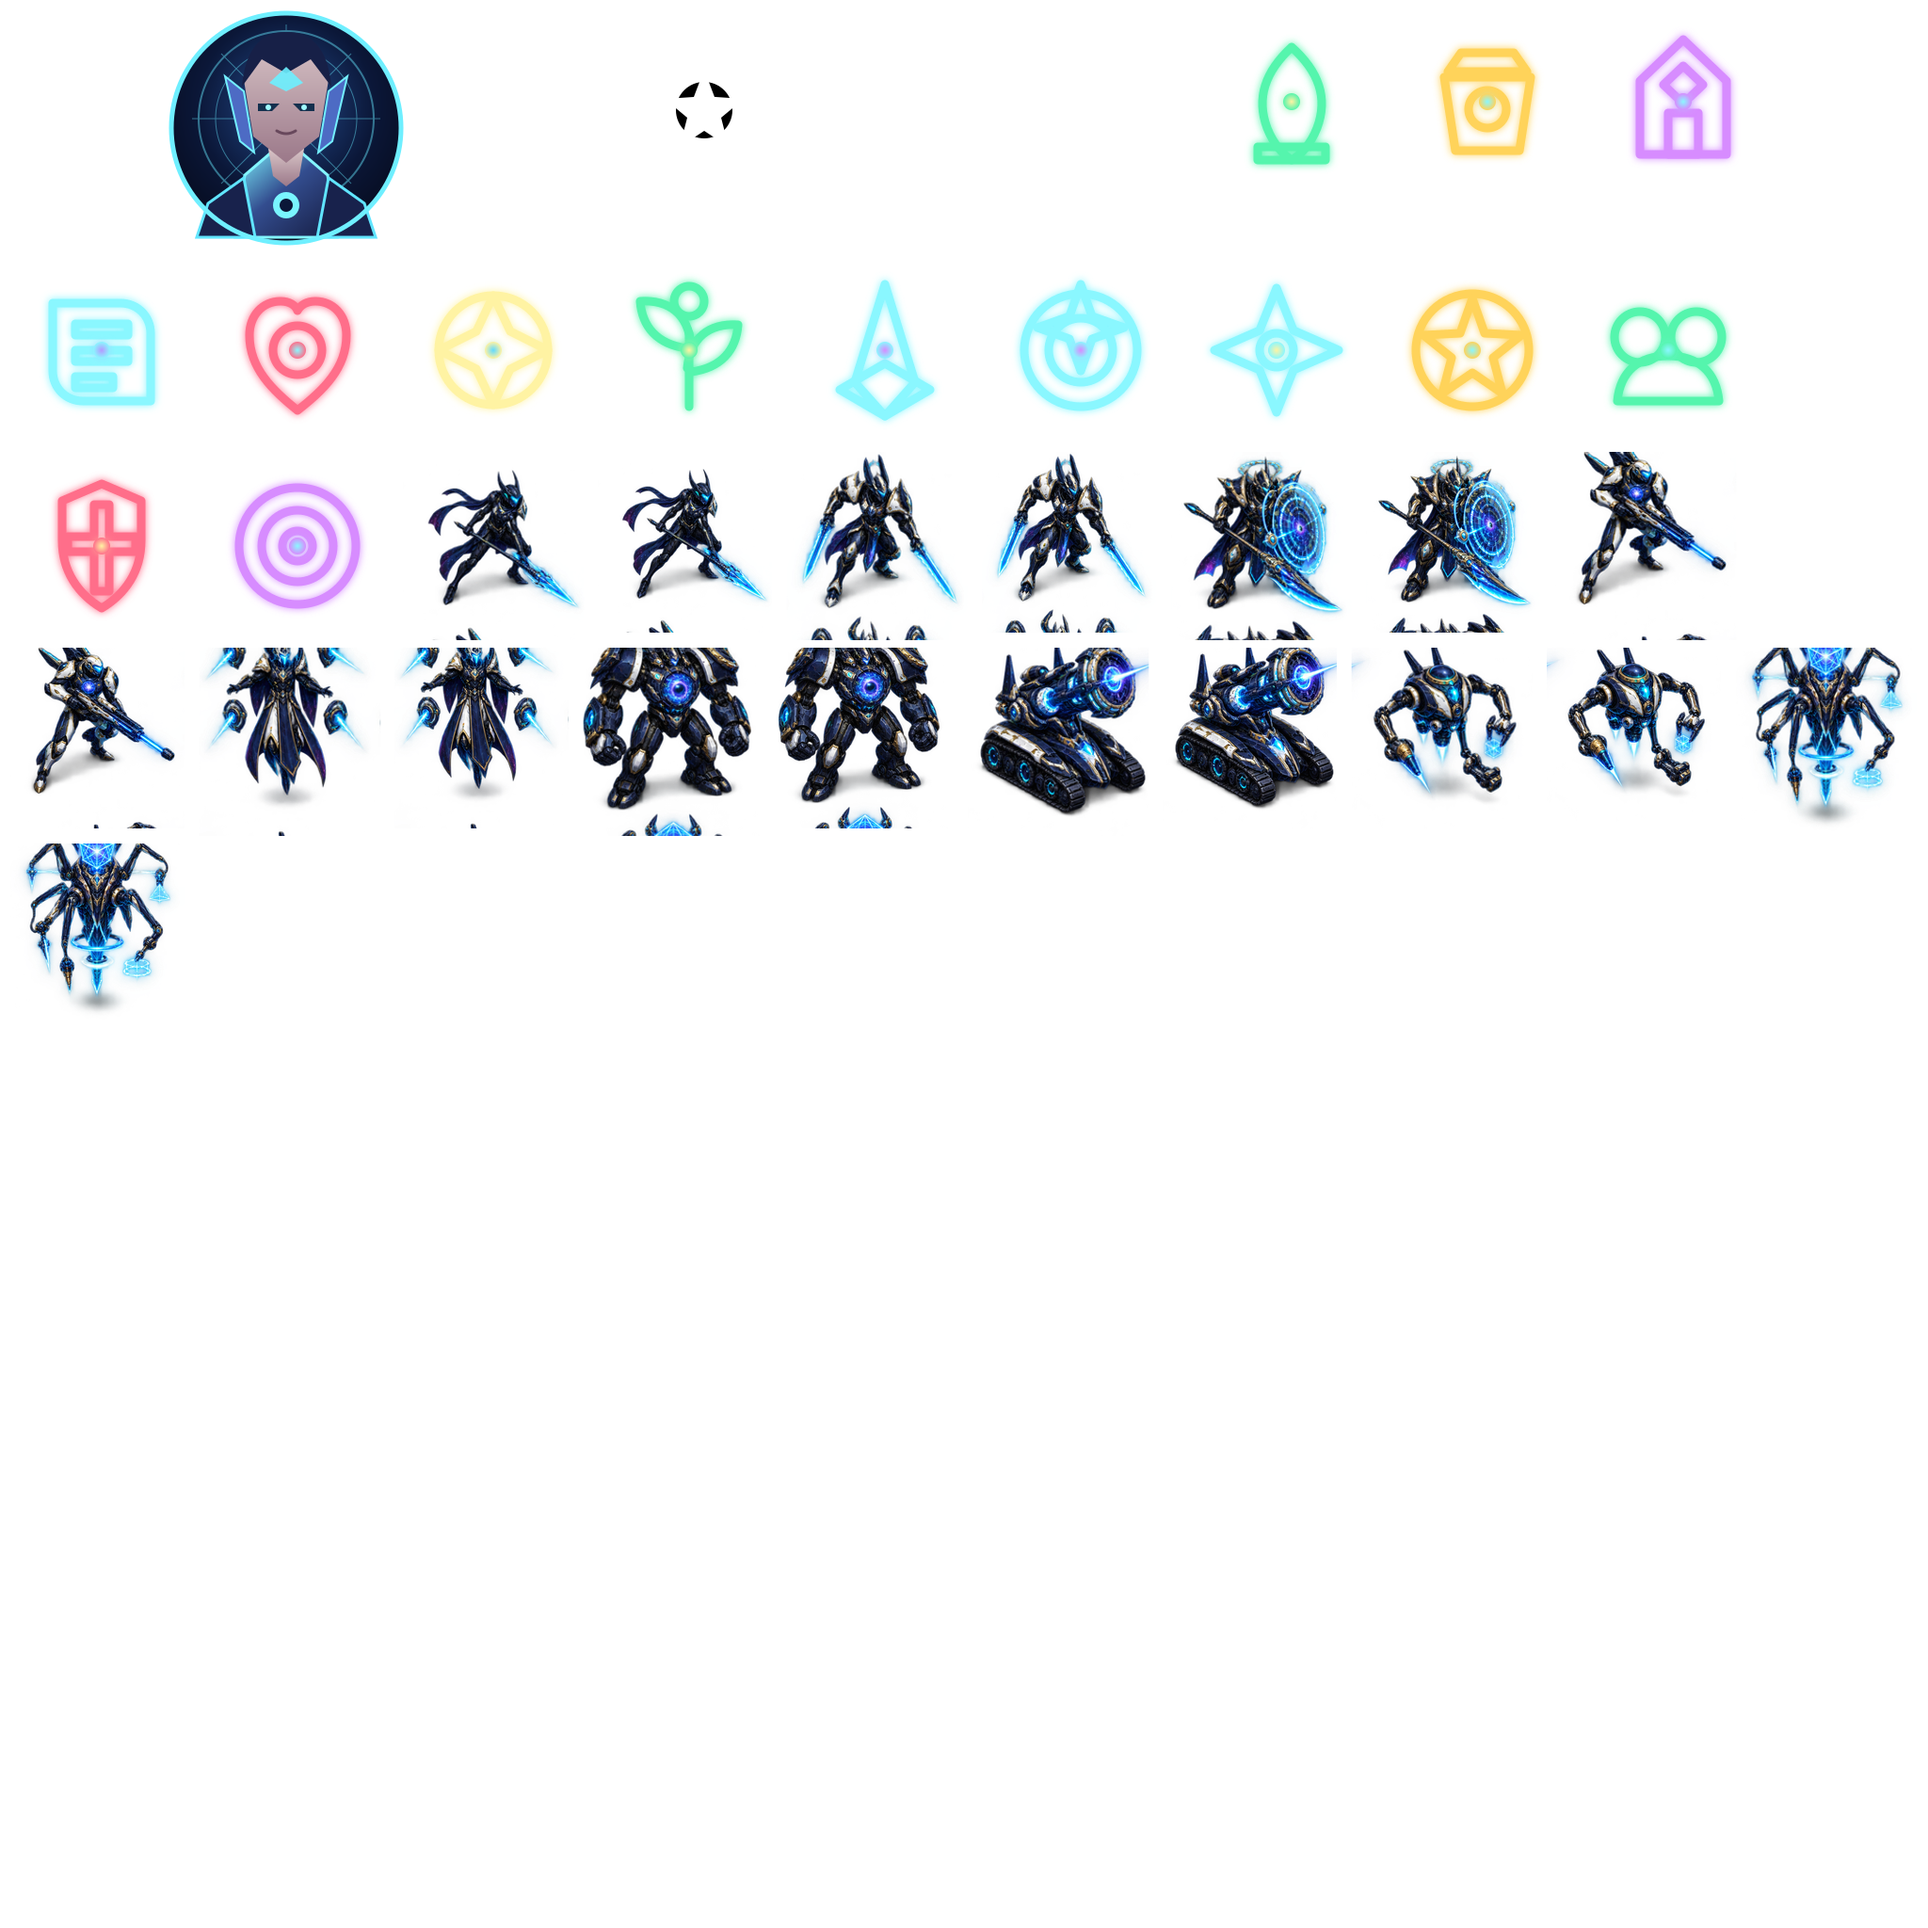
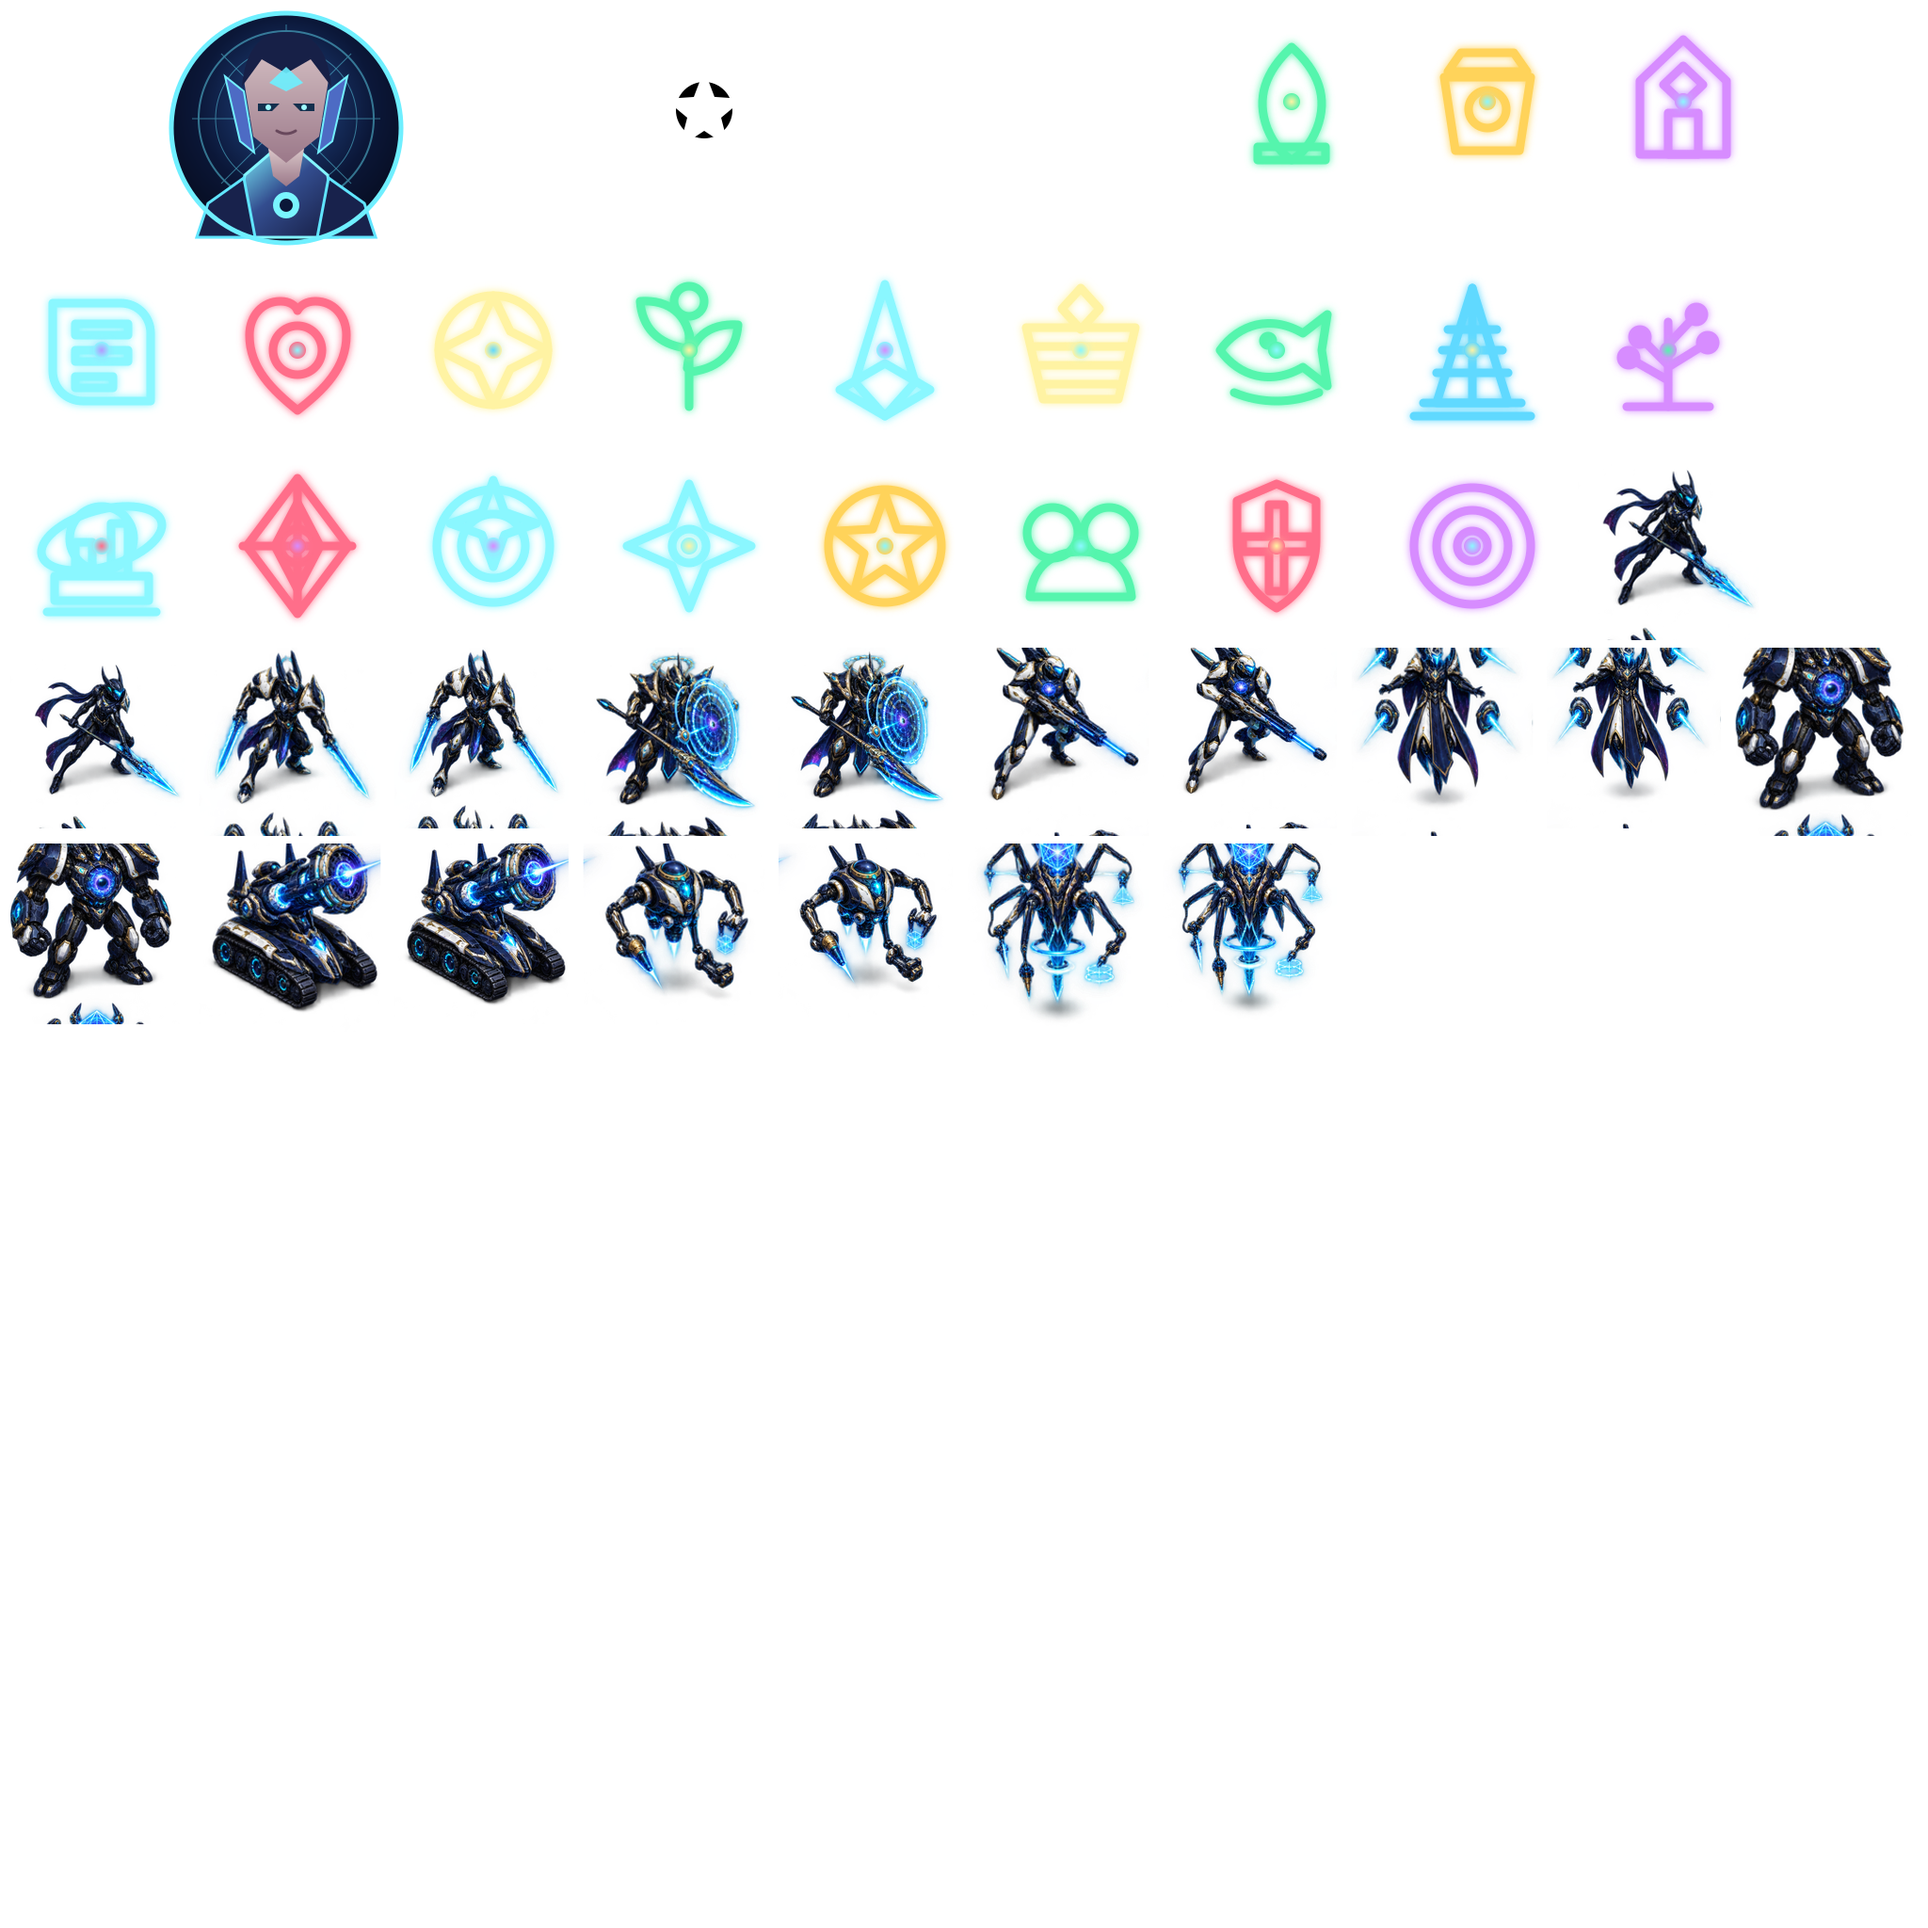
Expand Aetherion builders across land and water

Changed region(s): [[0.0, 0.125, 1.0, 0.5312]]

diff --git a/README.md b/README.md
@@ -12,7 +12,7 @@ A deliberately overpowered science-fiction civilization for Unciv, built for unr
 - Builders: **Quantum Fabricator** and **Worldshaper Architect**
 - Buildings: **Quantum Core**, **Stellar Forge**, **Omega Nexus**, **Genesis Crucible**, **Infinite Treasury**, **Continuum Basilica**, **Eternal Archive**, **Worldheart Engine**, and **Omniversal Exchange**
 - Religion: **Continuum Ascendance**, with five original beliefs
-- Improvements: **Genesis Garden** and **Continuum Spire**
+- Improvements: **Genesis Garden**, **Continuum Spire**, **Excavation Site**, **Stellar Fishery**, **Abyssal Extractor**, **Quantum Reef**, **Orbital Dockyard**, and **Riftway Nexus**
 - Technology: **Ascendant Physics**
 - Distinct high-quality map sprites for every unit, original icons, leader portrait, packed texture atlas, and repository preview
 - Release notes: `CHANGELOG.md`
@@ -39,7 +39,8 @@ This is an extension mod for the **Civ V - Gods & Kings** base ruleset. It is in
 
 - **Purchase almost anything:** All units and ordinary buildings cost only 10 Gold to purchase. Buildings can also be purchased with Faith, allowing access to purchases such as wonders that normally reject Gold.
 - **One-turn construction:** A 999,900% production bonus applies to all buildings and wonders, making normal construction finish in one turn even in a new city.
-- **One-turn improvements:** Both builders receive extreme improvement speed, the nation reduces improvement time by 99%, and the two exclusive improvements have a base build time of zero. Unciv resolves construction in turns rather than real-time seconds, so one turn is the fastest supported result.
+- **Omniversal builders:** The Quantum Fabricator and Worldshaper Architect can travel directly across water and build every available improvement category. That includes base-game Fishing Boats, Offshore Platforms, Oil wells, roads, railroads and Great Improvements as well as all eight Aetherion improvements.
+- **One-turn improvements:** Both builders receive extreme improvement speed, the nation reduces improvement time by 99%, and all eight exclusive improvements have a base build time of zero. Both builders can instantly construct Great Improvements; the Worldshaper also retains its dedicated instant Genesis Garden and Continuum Spire actions. Unciv resolves construction in turns rather than real-time seconds, so one turn is the fastest supported result.
 - **Massive military damage:** Every military unit receives +10,000% Strength. Aetherion's unique units stack their already extreme base statistics with this bonus.
 - **Courthouse-free conquest:** A Quantum Core is automatically installed in every Aetherion city and removes extra unhappiness from annexation. Civilization-wide unhappiness from cities and population is also eliminated.
 - **9,999-fold tradable resources:** Every improved luxury or strategic resource is multiplied by 9,999. A one-copy luxury deposit therefore supplies 9,999 tradable copies; larger strategic deposits provide corresponding multiples.
@@ -47,6 +48,23 @@ This is an extension mod for the **Civ V - Gods & Kings** base ruleset. It is in
 - **Exact 99,999 economy:** Every city receives 99,999 Food, Gold, Culture and Faith per turn before its buildings and tile yields are counted. The late-game Omniversal Exchange adds another 99,999 of every major yield.
 - **Ascendant religion:** Continuum Ascendance includes original Pantheon, Founder, Follower and Enhancer beliefs for enormous yields, near-free Faith armies and map-wide natural spread.
 - **Visual evolution:** Each stage from Voidwalker Legion to Singularity Titan has different armor, weapons and silhouette. The Reality Breaker and both builders also use their own sprites.
+
+## Builder capabilities and improvement rules
+
+Both Aetherion builders have permission to work on land and water, but that permission does not bypass an improvement's own requirements. An action appears only when its technology has been researched and the tile satisfies the base game's terrain and resource rules. For example, Fishing Boats require an appropriate water resource, Offshore Platforms require offshore Oil, Oil wells require valid land Oil, and roads or railroads follow their normal land-route rules. Water travel lets the builders reach valid sea tiles without embarking; it does not make a land improvement valid at sea. Great Improvements become available through their normal game systems, while the two builders' instant-construction ability removes their build time.
+
+The Aetherion custom catalog is:
+
+- **Genesis Garden** — land; Agriculture; 99,999 of every major yield.
+- **Continuum Spire** — land; Writing; 99,999 of every major yield.
+- **Excavation Site** — land; Archaeology; 99,999 Gold, Culture and Science.
+- **Stellar Fishery** — water; Sailing; 99,999 Food, Gold and Science.
+- **Abyssal Extractor** — water; Refrigeration; 99,999 Production, Gold and Science.
+- **Quantum Reef** — water; Ecology; 99,999 Food, Culture, Faith and Science.
+- **Orbital Dockyard** — water; Navigation; 99,999 Production, Gold, Culture and Science.
+- **Riftway Nexus** — land or water; Ascendant Physics; 99,999 of every major yield and a 999% defensive bonus.
+
+These custom improvements do not require a resource deposit. Automated builders will not replace them, and pillaging one yields approximately 99,999 Gold.
 
 ## Showing the custom unit artwork
 

diff --git a/CHANGELOG.md b/CHANGELOG.md
@@ -1,5 +1,15 @@
 # Changelog
 
+## 0.4.0 — Omniversal Engineering
+
+- Expanded the Quantum Fabricator and Worldshaper Architect from land-only construction to every available land and water improvement category.
+- Added direct water travel without embarking and instant Great Improvement construction to both builders.
+- Preserved extreme improvement speed, automation and the Worldshaper Architect's instant Genesis Garden and Continuum Spire actions.
+- Enabled base-game construction such as Fishing Boats, Offshore Platforms, Oil wells, roads and railroads whenever their normal technology, resource and terrain requirements are met.
+- Added six one-turn Aetherion improvements: Excavation Site, Stellar Fishery, Abyssal Extractor, Quantum Reef, Orbital Dockyard and Riftway Nexus.
+- Added water-focused yield options across Sailing, Navigation, Refrigeration and Ecology, plus the land-or-water Riftway Nexus at Ascendant Physics.
+- Documented builder permissions and the technology, terrain and resource rules that still govern each construction action.
+
 ## 0.3.0 — Infinite Dominion
 
 - Expanded the infantry line into six visually distinct upgrade stages ending with the Singularity Titan.
